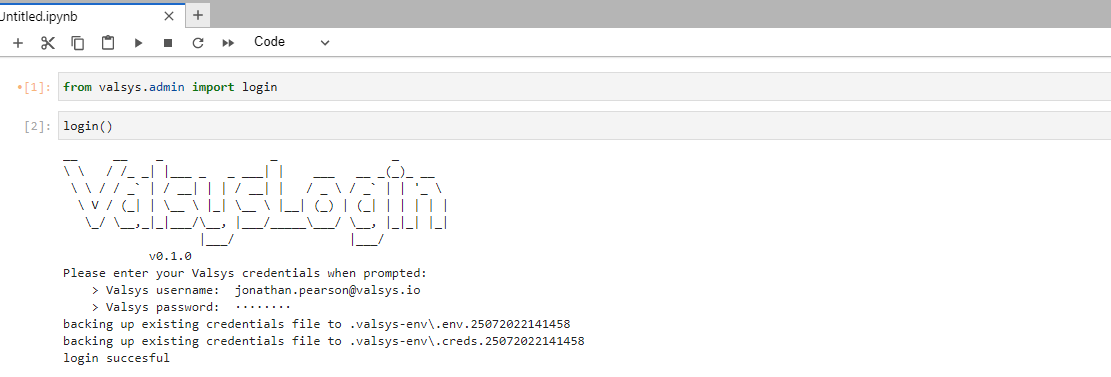
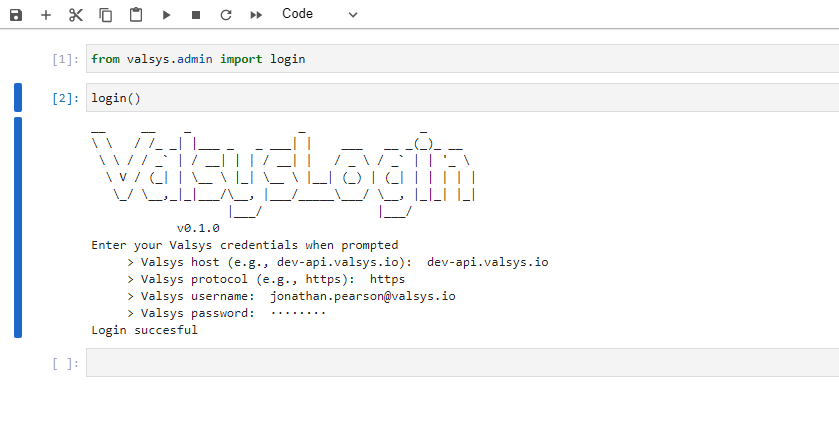
workflow updates

Changed region(s): [[0.0, 0.2042, 0.6508, 0.9629], [0.0, 0.0, 1.0, 0.1751], [0.2169, 0.2918, 0.2479, 0.321]]

diff --git a/valsys/spawn/spawn_handler.py b/valsys/spawn/spawn_handler.py
@@ -1,12 +1,12 @@
 from dataclasses import dataclass, field
 from typing import Any, Dict, List
-
+from datetime import datetime
+from valsys.utils import logger
 from valsys.auth.service import authenticate
 from valsys.config.config import API_PASSWORD, API_USERNAME
 from valsys.modeling.exceptions import ShareModelException, TagModelException
 from valsys.modeling.service import share_model, tag_model, spawn_model, SpawnedModelInfo
 
-from valsys.spawn.exceptions import ModelSpawnException
 from valsys.spawn.models import SpawnProgress
 from valsys.seeds.models import OrchestratorConfig
 
@@ -58,43 +58,31 @@ class SpawnHandler:
                 self.progress.mark_shared(email, permission, err=err)
 
     @classmethod
-    def build_and_spawn_models(
+    def orchestrate_model_spawns(
         cls,
-        seeds: List[SpawnedModelInfo],
-        tags: List[str] = None,
-        emails: List[str] = None,
-        options: Dict[str, Any] = None,
+        seeds: OrchestratorConfig,
     ) -> List[SpawnProgress]:
         """Build and spawn models from the provided model configurations."""
+        seeds.username, seeds.password = API_USERNAME, API_PASSWORD
+        nmodels = seeds.count_tickers
+        t1 = datetime.now()
+        models = spawn_model(seeds)
+        t2 = datetime.now()
+        logger.info(
+            f"spawned {nmodels} models in {(t2-t1).total_seconds():.1f}s")
 
-        tags = tags or []
-        emails = emails or []
         options = options or {"verbose": True}
         user, password = API_USERNAME, API_PASSWORD
 
         progress = []
-
-        for config in seeds:
+        tags, emails = seeds.tags, seeds.emails
+        for model in models:
             auth_token = authenticate(username=user, password=password)
             handler = SpawnHandler(auth_token)
-            handler.model_id = config.model_id
-            handler.progress.mark_spawned(model_id=config.model_id)
-            handler.progress.ticker = config.ticker
+            handler.model_id = model.model_id
+            handler.progress.mark_spawned(model_id=model.model_id)
+            handler.progress.ticker = model.ticker
             handler.tag(tags=tags)
             handler.share(emails=emails)
-
             progress.append(handler.progress)
-
         return progress
-
-    @classmethod
-    def orchestrate_model_spawns(
-        cls,
-        seeds: OrchestratorConfig,
-    ):
-        seeds.username, seeds.password = API_USERNAME, API_PASSWORD
-
-        models = spawn_model(seeds)
-        return cls.build_and_spawn_models(models,
-                                          tags=seeds.tags,
-                                          emails=seeds.emails)

diff --git a/valsys/spawn/service.py b/valsys/spawn/service.py
@@ -1,5 +1,5 @@
 import json
-from typing import List
+from typing import List, Dict, Any
 
 from valsys.modeling.service import (
     add_child_module,
@@ -83,6 +83,13 @@ def spawn_models(configs: List[OrchestratorConfig],
         raise ValueError(f"no models spawned")
 
     return rep
+
+
+def spawn_from_config(seed_config: Dict[str, Any]):
+    model_seed_config = OrchestratorConfig.from_json(seed_config)
+
+    # Spawn the model and obtain the new modelID
+    return spawn_models([model_seed_config])
 
 
 def populate_models_with_modules(

diff --git a/valsys/seeds/models.py b/valsys/seeds/models.py
@@ -81,6 +81,10 @@ class OrchestratorConfig:
     def tickers(self):
         return [mc.ticker for mc in self.model_configs]
 
+    @property
+    def count_tickers(self):
+        return len(self.model_configs)
+
     def jsonify(self):
         return {
             "action": self.action,

diff --git a/docs/index.md b/docs/index.md
@@ -1,17 +1,49 @@
 # Getting started
+### Create a python virtual environment
+We recommended to install the `valsys` library into a python virtual environment, rather than the global python kernel. This requires you have a system-wide installation of `python` (below we assume that `python` corresponds to a `v3.x`). Other environment management systems are available.
 
+To create a python virtual environment in the current directory, execute
+```
+python -m venv .venv
+```
+The activation of the virtual environment is slightly different on windows and mac:
 
-From a Jupyter notebook, connect to a python kernel (recommended that its a virtual environment, rather than the global python kernel). Install the valsys python package from within a cell via
-```python
-!pip install git+https://github.com/valsysinc/valsys-api
+* If on windows,
+```
+.venv\Scripts\activate.ps1
+```
+* If on linux/mac
+```
+source .venv/bin/activate
 ```
 
+Now that you have an active virtual environment, install the `valsys` python package via
+```python
+pip install git+https://github.com/valsysinc/valsys-api
+```
+Any other packages you require (e.g., `spark`, or `numpy`) will also need to be installed into the environment
+
 ## Login
-Once the library has been installed (e.g., via `pip`), the first task is to login.
+Once the library has been installed, the first task is to login. From a python script (e.g., in the repl, or a jupyter notebook), execute
 ```python
 from valsys.admin import login
 login()
 ```
+
+Alternatively, you could execute the following on a command line
+```
+python main.py --login
+```
+
+Either way, you will be prompted to enter the following information:
+
+* **Valsys host**: the base part of the valsys url (if unsure, contact valsys support)
+* **Valsys protocol**: whether using `http` or `https`.
+* **Valsys username**: this is the username used to login to the valsys system 
+* **Valsys password**: this is the password used to login to the valsys system
+
+The login process will attempt to authenticate with these pieces of information.
+
 Below we provide a screenshot of a jupyter notebook showing the expected screen and output.
 
 ![](images/jupyter_login.png "Jupyter login")

diff --git a/docs/workflowExamples.md b/docs/workflowExamples.md
@@ -10,25 +10,21 @@ In the below example, we show how to spawn a `SBUX` model and obtain its model `
 
 ```python linenums="1"
 # Import the spawn_model function from the spawn service
-from valsys.spawn.service import spawn_models
+from valsys.spawn.service import spawn_from_config
 
-# Import the class for the model seed configuration data
-from valsys.seeds.models import OrchestratorConfig
 
 # Define the model seed configuration data
 seed_config = {
-    'templateName':'dcf-standard',
-    'numForecastYears':3,
-    'numHistoricalYears':2,
-    'tickers':['SBUX', 'BYND']
+    'templateName': 'dcf-standard',
+    'numForecastYears': 3,
+    'numHistoricalYears': 2,
+    'tickers': ['SBUX', 'BYND']
 }
-model_seed_config = OrchestratorConfig.from_json(seed_config)
 
-# Spawn the model and obtain the new modelID
-spawn_progresses = spawn_models([model_seed_config])
+spawned_models = spawn_from_config(seed_config)
 
 # Extract a list of modelID/tickers from the spawned model data
-models = [{'modelID': p.model_id, 'ticker': p.ticker} for p in spawn_progresses]
+models = [{'modelID': p.model_id, 'ticker': p.ticker} for p in spawned_models]
 ```
 
 If the `templateName` is incorrectly entered (e.g., typo, or something that doesnt exist), a `TemplateNotFoundException` is thrown explaining 
